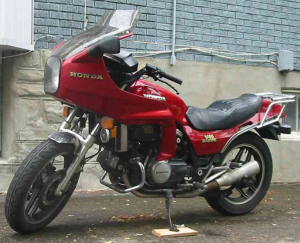
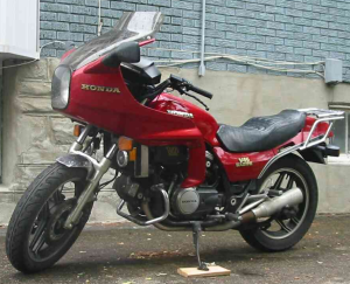
Added tire lift page

diff --git a/tire_lift.html b/tire_lift.html
@@ -1,0 +1,66 @@
+<html>
+  <title>Tire lift tool</title>
+  <style>
+    td { vertical-align: center; }
+  </style>
+  <body>
+    <h1>Tire lift tool</h1>
+    <p>I do all the maintenance on my bikes by myself, so I'm at a disadvantage when I'm putting a rear wheel back in place. I need to lift and hold a 30 pound
+      tire & wheel in place accurately enough to slide in the axle, while dealing with spacers, brake brackets, ABS sensors and what-not.</p>
+    <p>I constructed a tool from the cargo strapping used on semi trailers. The wide strap fits easily under the tire, and the ratchet mechanism holds it and
+      allows fine position adjustments.</p>
+    <p>This is most useful with a bike lift, but you can use it on the ground, as well.</p>
+    <table>
+      <tr>
+        <td width="100%">
+          <p>I bought the main components from Northern Tool + Equipment.</p>
+          <p>The "Buyers Standard Bolt-On Winch, Model#1903020" and "SmartStraps Winch Strap with Flat Hook-30ftx4in, Model#285" are both $30.</p>
+          <p>You want the bolt-on winch so you can bolt it to the carrier, and you want the 4&quot; wide strap to better fit under the tire.</p>
+          <p>Construct an L-shaped carrier from 1x6 pine and corner brackets.</p>
+          <p>It needs to be at least as tall as the height of the axle on whatever bike stand you're using.</p>
+          <p>Drill 1/2" holes and bolt the winch to the carrier with 1/2"x2" bolts and washers.</p>
+          <p>Make sure the ratchet is facing the correct way up.</p>
+          <p>Shorten the strap as necessary, and use a flame to melt the end to keep it from unraveling.</p>
+        </td>
+        <td>
+          <img src="closeup.jpg">
+        </td>
+      </tr>
+    </table>
+    <br>
+    <hr>
+    <br>
+    <table>
+      <tr>
+        <td width="100%">
+          <p>I used a long 3/8" ratchet extension as a support rod.</p>
+          <p>Insert support rod into the passenger footpeg brackets.</p>
+          <p>You can also put the support rod directly on the swingarm.</p>
+          <p>Hook end of strap over rod.</p>
+          <p>Lay strap under wheel path, and put tool on ground.</p>
+        </td>
+        <td>
+          <img src="stage1.jpg">
+        </td>
+      </tr>
+      <tr>
+        <td>
+          <p>Put wheel in place on strap.</p>
+          <p>Put tool on lift.</p>
+          <p>Tighten ratchet to lift strap.</p>
+        </td>
+        <td>
+          <img src="stage2.jpg">
+        </td>
+      </tr>
+      <tr>
+        <td>
+          <p>At this point, it should be obvious how you control the positioning of the tire.</p>
+        </td>
+        <td>
+          <img src="stage3.jpg">
+        </td>
+      </tr>
+    </table>
+  </body>
+</html>

diff --git a/index.html b/index.html
@@ -7,6 +7,7 @@
     <p></p>
     <a href="garage_door.html">Automated garage door controller using a Raspberry Pi</a><br><br>
     <a href="brake_fluid_bottle.html">Making a brake fluid supply bottle out of a Mason jar and about $40 in computer water-cooling parts</a><br><br>
-    <a href="my_bikes.html">My motorcycles - past and present</a>
+    <a href="my_bikes.html">My motorcycles - past and present</a><br><br>
+    <a href="tire_lift.html">Tool to help one person maneuver a rear wheel into the swingarm</a>
   </body>
 </html>

diff --git a/brake_fluid_bottle.html b/brake_fluid_bottle.html
@@ -3,8 +3,8 @@
     <title>Brake fluid supply bottle</title>
   </head>
   <style>
-    table {border-collapse: collapse;}
-    td {border-bottom: 1px solid black; padding: 5px;}
+    table {border-collapse: collapse; }
+    td {border-bottom: 1px solid black; padding: 5px; }
   </style>
   <body>
     <h1>Brake fluid supply bottle</h1>

diff --git a/my_bikes.html b/my_bikes.html
@@ -3,7 +3,7 @@
     <title>My Bikes</title>
   </head>
   <style>
-    img { float: right; margin: 0px 0px 15px 20px; width: 350px;}
+    img { float: right; margin: 0px 0px 15px 20px; }
   </style>
   <body>
     <h1>My motorcycles - past and present</h1>
